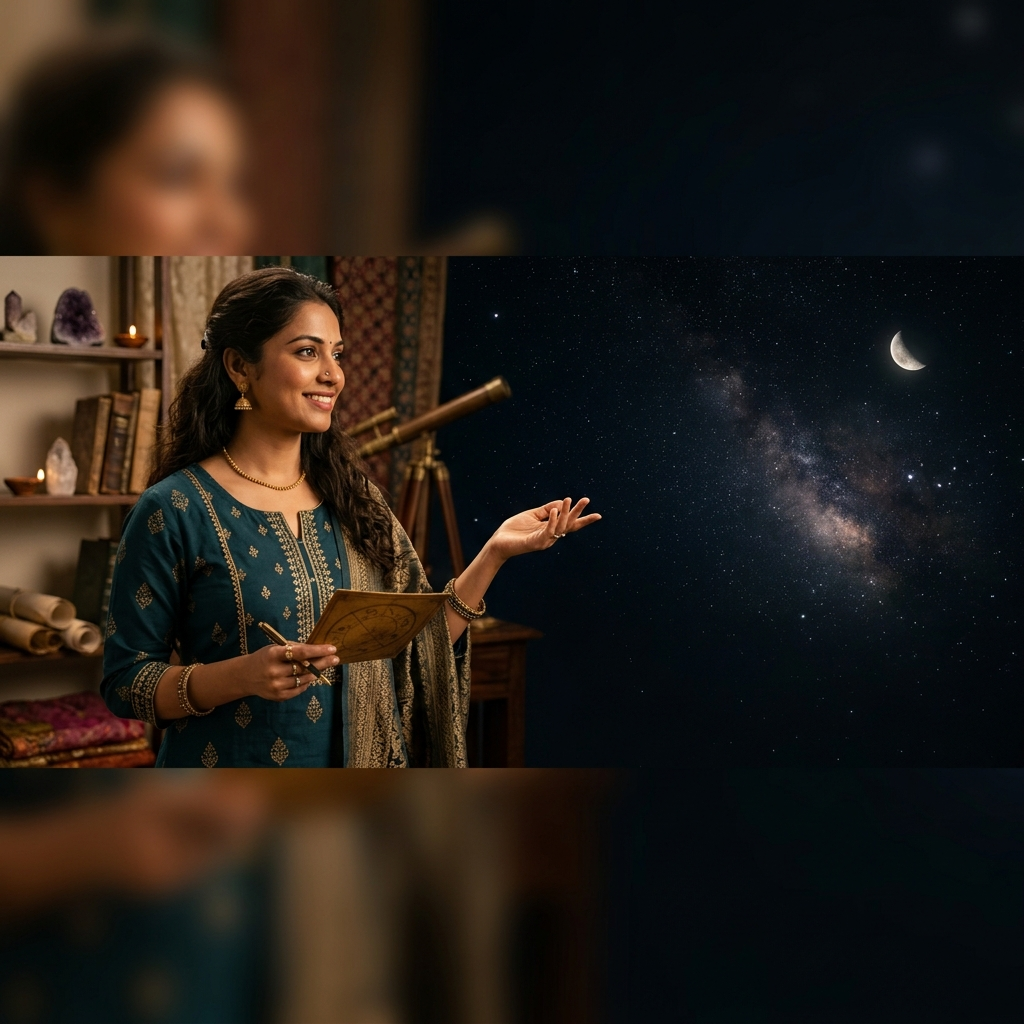
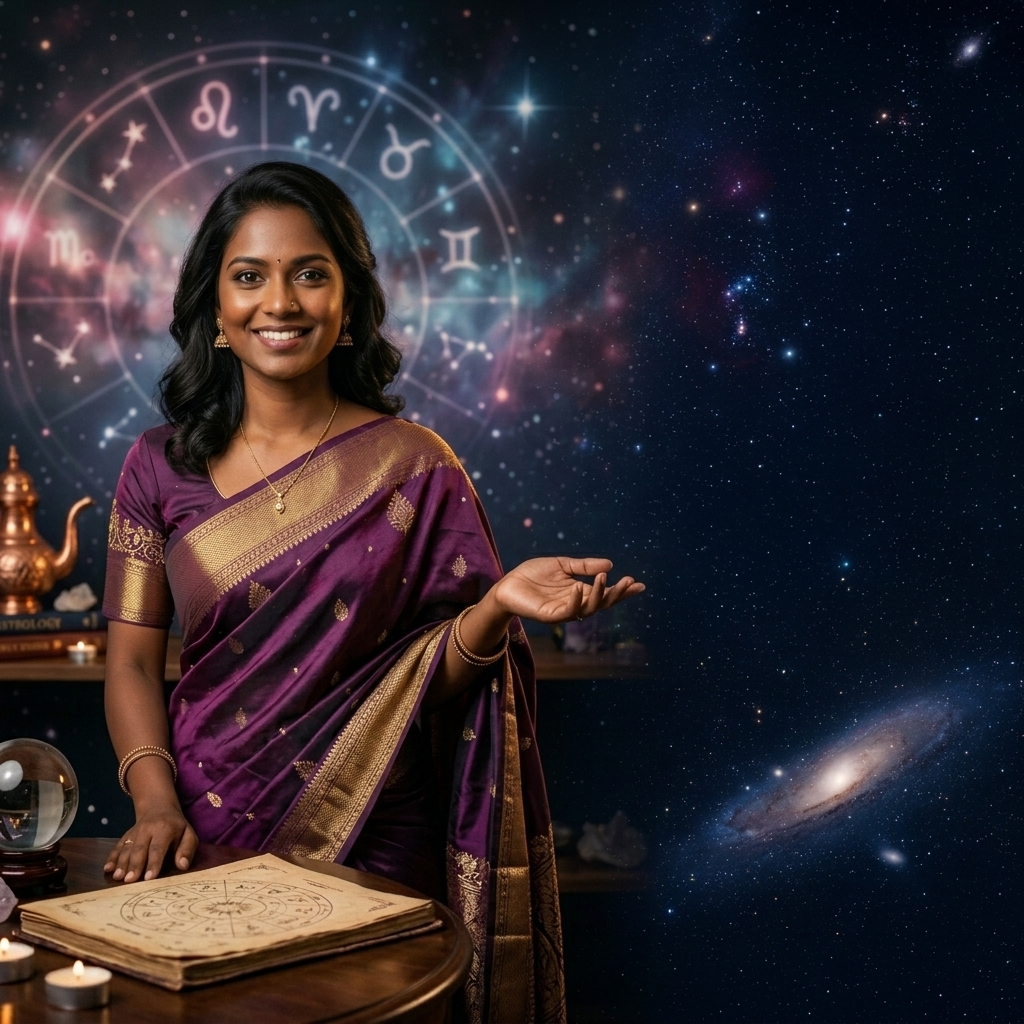
Refine active hybrid splash screen: consistent images, add secondary CTA, center header text

diff --git a/index.html b/index.html
@@ -432,6 +432,9 @@
                                 <h2 class="slide-in-text">क्या प्रमोशन रुका हुआ है?</h2>
                             </div>
                         </div>
+                        <div class="hanging-cta theme-priya" style="cursor: default; padding-right: 24px; justify-content: center; bottom: 25px;">
+                            <span class="cta-text" style="font-size: 18px;">मिलेगी नई राह! 🚀</span>
+                        </div>
                     </div>
                     <!-- Card 2: Ajay -->
                     <div class="slider-card" data-astro="ajay">
@@ -441,6 +444,9 @@
                                 <h2 class="slide-in-text">व्यापार में घाटा क्यों?</h2>
                             </div>
                         </div>
+                        <div class="hanging-cta theme-ajay" style="cursor: default; padding-right: 24px; justify-content: center; bottom: 25px;">
+                            <span class="cta-text" style="font-size: 18px;">चमकेगी किस्मत की दुकान 💰</span>
+                        </div>
                     </div>
                     <!-- Card 3: Kirti -->
                     <div class="slider-card" data-astro="kirti">
@@ -449,6 +455,9 @@
                             <div class="slider-overlay-text">
                                 <h2 class="slide-in-text">सच्चा प्यार कब मिलेगा?</h2>
                             </div>
+                        </div>
+                        <div class="hanging-cta theme-kirti" style="cursor: default; padding-right: 24px; justify-content: center; bottom: 25px;">
+                            <span class="cta-text" style="font-size: 18px;">मिलेगा जीवनसाथी ❤</span>
                         </div>
                     </div>
                 </div>
@@ -462,8 +471,9 @@
 
             <!-- Listing Section -->
             <div class="hybrid-listing-section">
-                <div class="hybrid-listing-header">
+                <div class="hybrid-listing-header" style="text-align: center;">
                     <h1>अपना ज्योतिषी चुनें</h1>
+                    <p style="color: #FFD700; font-size: 14px; text-align: center; margin: 0 0 16px 0; font-weight: 500;">करियर, प्रेम या धन... अपने हर सवाल का सटीक जवाब पाएं।</p>
                     <h2><i class="fa-regular fa-clock"></i> शेष समय: 05:00</h2>
                 </div>
 
